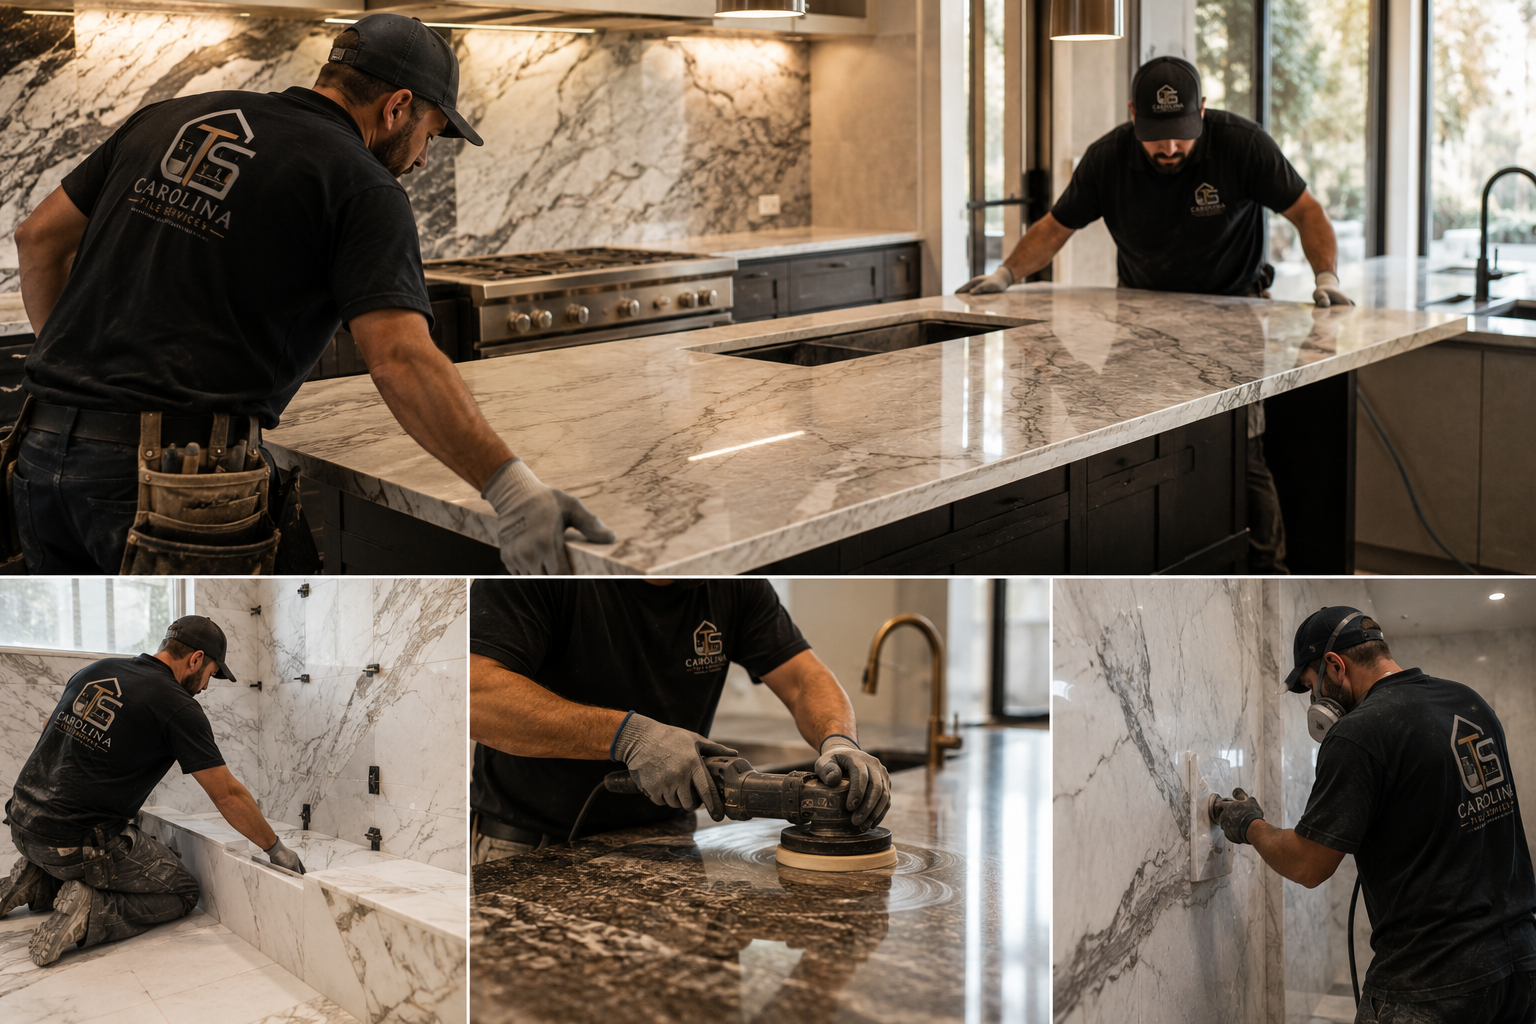
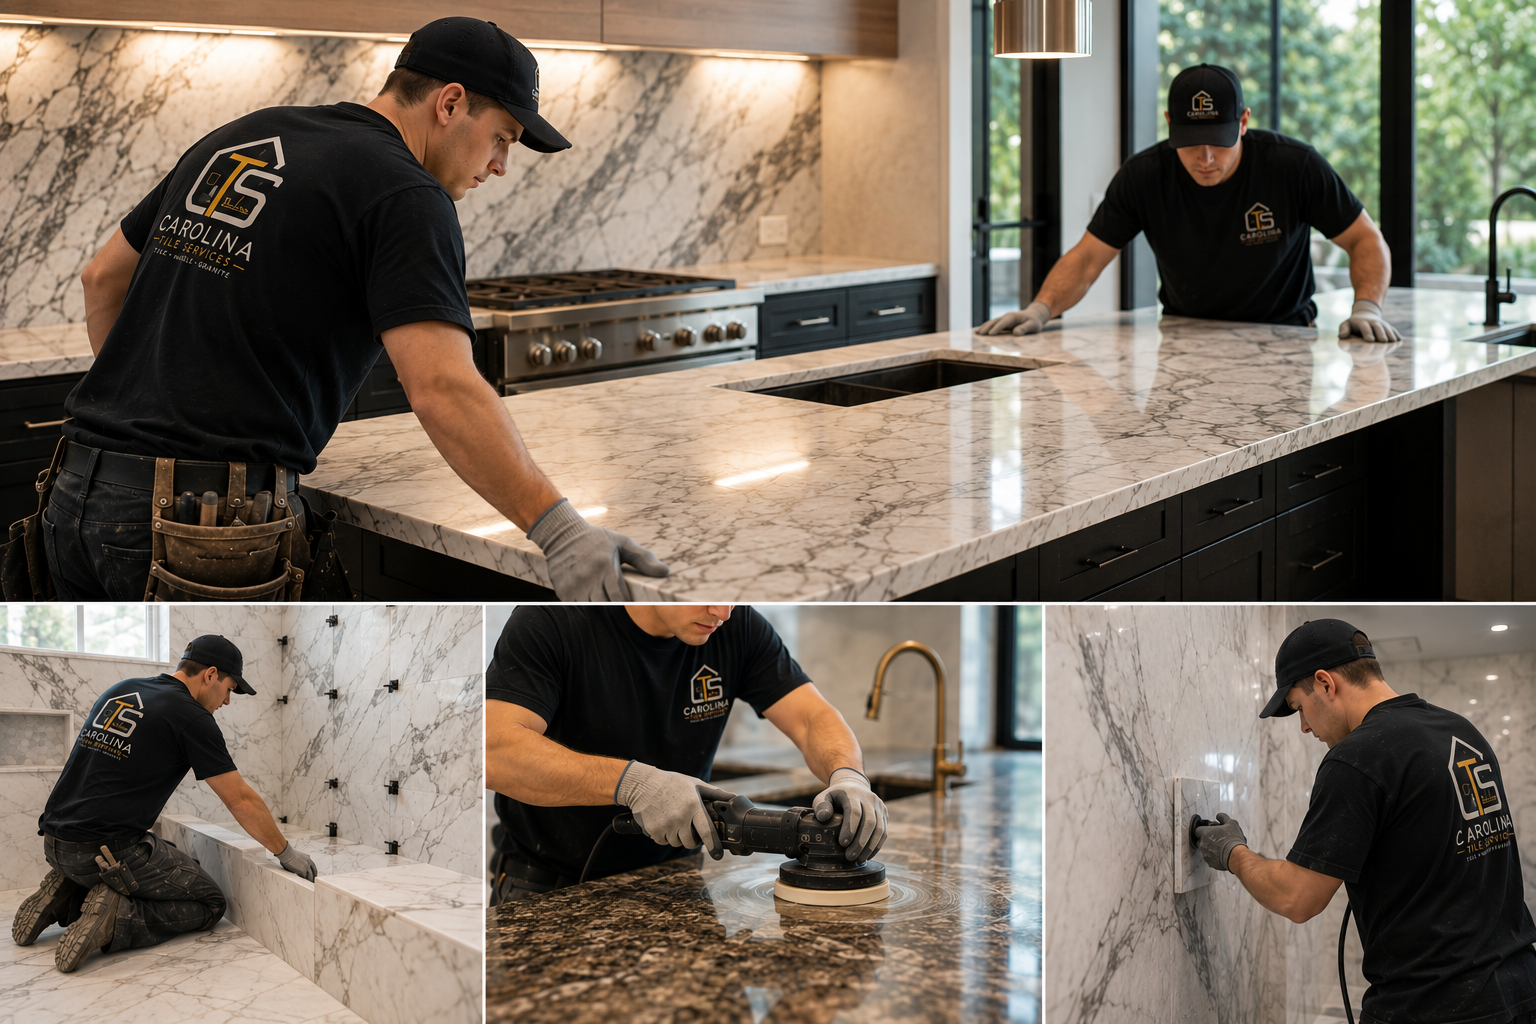
Update services

diff --git a/src/app/page.js b/src/app/page.js
@@ -63,7 +63,7 @@ export default function Home() {
       <section
         className="relative min-h-screen bg-cover bg-center"
         style={{
-          backgroundImage: "url('/herob.png')",
+          backgroundImage: "url('/hero.png')",
         }}
       >
         <div className="absolute inset-0 bg-black/70"></div>
@@ -131,10 +131,10 @@ export default function Home() {
             {[
               "Bathroom Tile",
               "Kitchen Backsplash",
-              "Floor Tile Installation",
-              "Shower Remodeling",
-              "Tile Repair",
-              "Custom Tile Work",
+              "Luxury Vinyl Floor Tile Installation",
+              "Laminate Flooring",
+              "Hardwood Flooring",
+              "Remodel",
             ].map((service) => (
               <div
                 key={service}